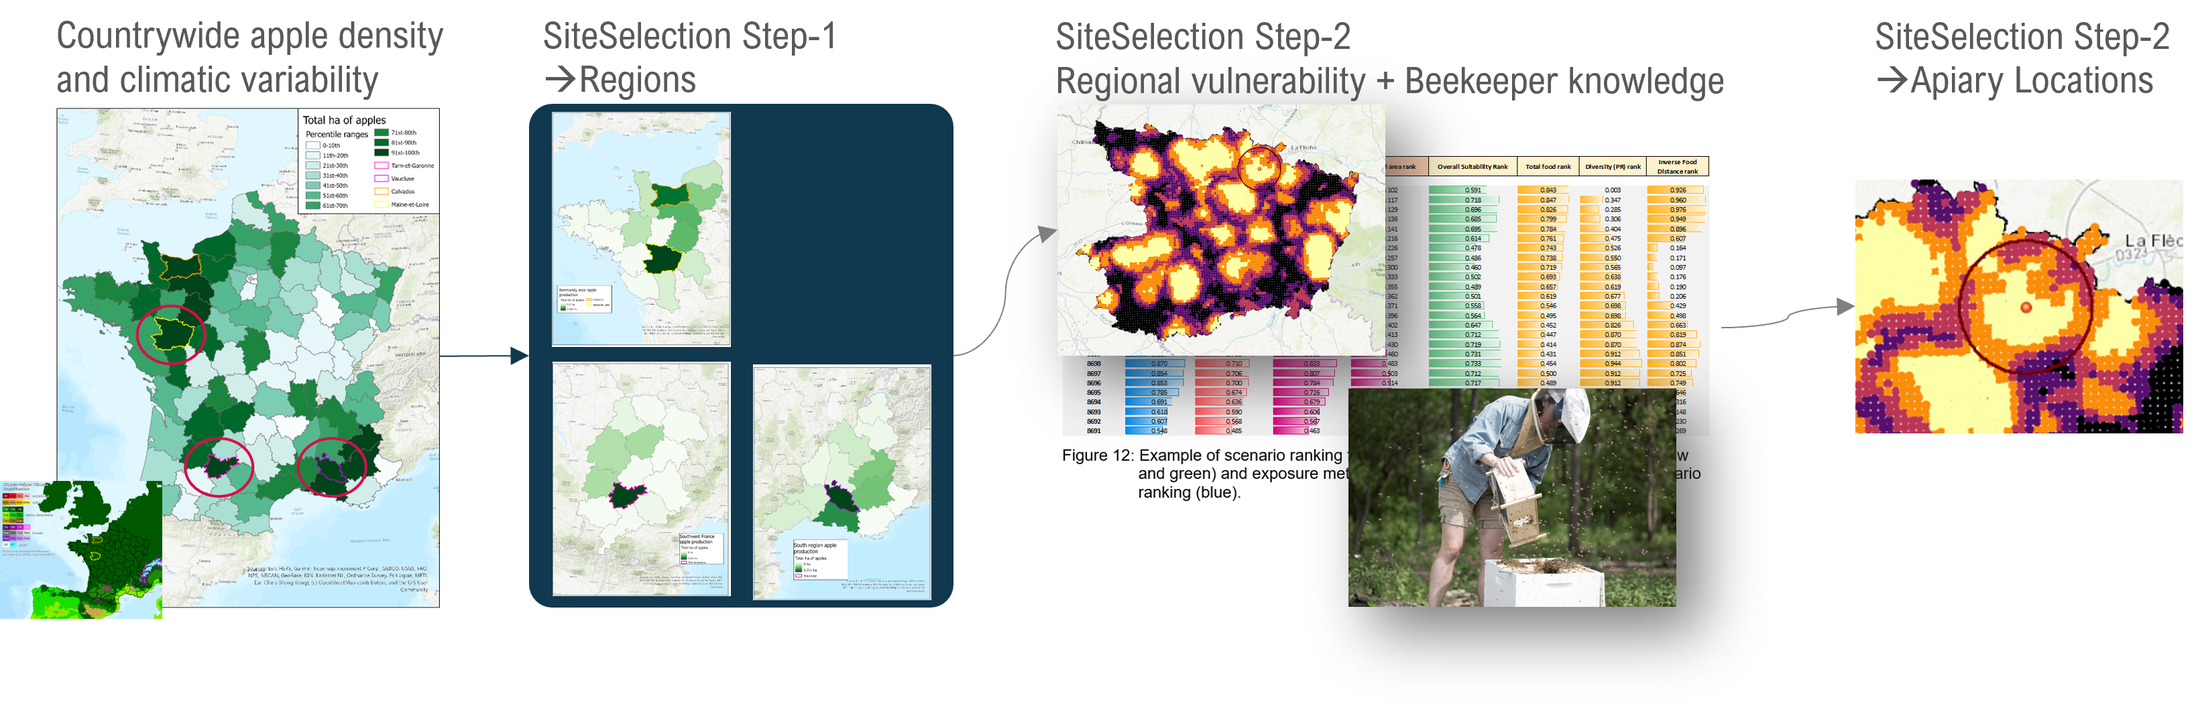
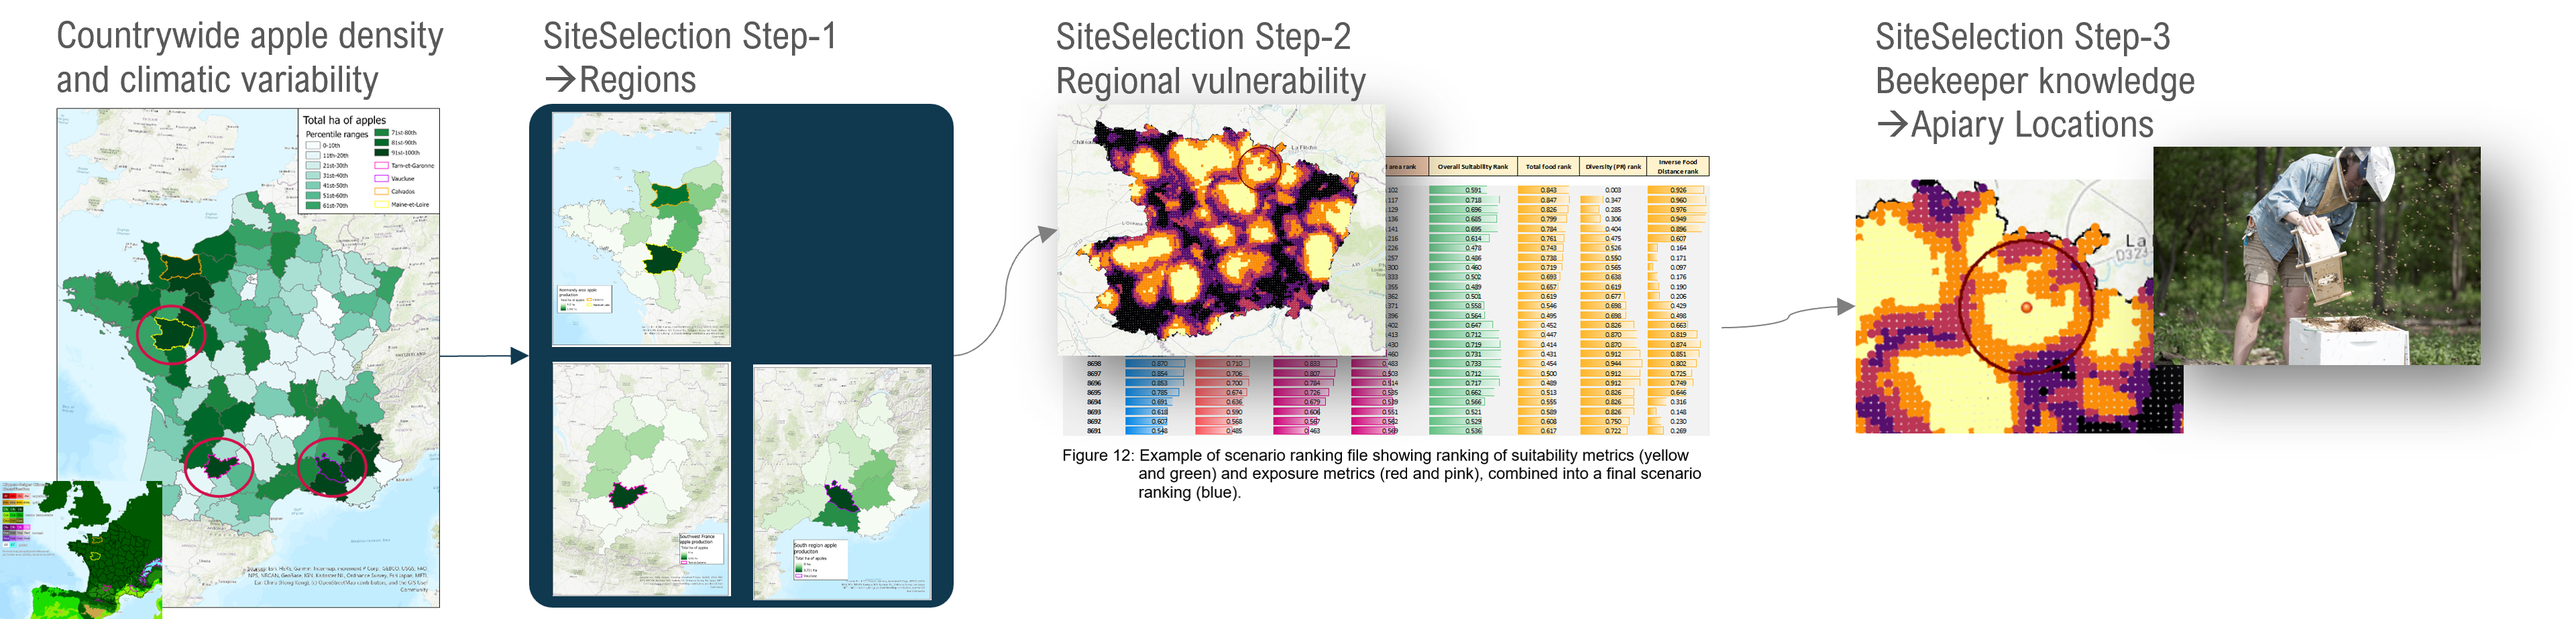
documentation: continue with 'scenario' section

diff --git a/docs/scenarios/scenario-intro.md b/docs/scenarios/scenario-intro.md
@@ -1,4 +1,4 @@
-# Intro
+# Intro *!writing in progress!*
 
 First of all, scenarios have a **technical meaning** as a structured integration of all nessessary environmental, land use/cover, agricultural, ecological data, information and assumptions to run a model (here, xPollinator). However, in environmental risk assessment, scenarios have a **regulatory meaning** as a testing system, that has to assure a certain protection level in case the test gets passed. In this role, scenarios have to address a certain **level of conservatism**, hence, need to be **representative** for a range of conditions of a typically large geographic area (e.g., a country).  
 Whereas detailed scenarios are applied to derive risk estimates, simple ones are used, e.g., for screening a level of conservatism for large areas.  
@@ -19,24 +19,120 @@ Furthermore, such services can support the study site identification, i.e., the 
 
 ### Scenario Development Aspects
 
-#### Tiered Approach
+#### Scenario Site Selection
 
-Typically, the ideal data of local nectar and pollen provisioning by plant species, together with the necessary data on environmental conditions are not available. Thus, **bee forage occurrence need to be modeled**. Scale, precision and accurracy of this modelling approach should be adapted to the problem at hand. Presumably, this procedure comes with expert judgement, so, transparancy in the data acquisition, preparation and processing is key to acceptability.  
-xxx  
-To support clarity and transparancy, we propose to consider a tiered approach (4 levels) as part of this Depending on the purpose of the bee (pollinator) forage modelling, :
+The selection of scenario sites is a crucial part of the scenario development process and depends on the study context, purpose and goals.  
+An example for a site selection process is illustrated below. The context is a regulatory risk assessment using the BeeHave model, for the use of an insecticide in apple cultivations in France. In this illustrative example, site selection was a 3-step approach:  
+
+1. At country scale (France), cultivation data consistantly available across France was used to select regions of high apple cropping density. Rationale: Honey bees forage on apple inflorescences. As a managed species, bee keepers like to put their hives in apple cultivation vicinity. Thus, risk of honey bees to get exposed by the use of a PPP in apples is driven by local apple cultivation density, simply: the more apple cultivations the greater the chance of bees to be exposed.  
+Bee activity is driven by weather conditions, eg, temperature, sunshine hours. As e.g., the effect of varying sunshine hours to risk is currently not clear, 3 regions of different climate conditions were selected covering climatic variability to increase scenario represenativeness.
+1. At regional level, bee forage mapping was built upon a dataset of Land Use/Cover types covering bee forage offering vegetation (eg, rape, apples, wood and road margins, riparian). The LULC layer was derived using off-the-shelf topographic, cropping, hydrographic datasets, cropping statistics and expert knowledge (eg, wood margin). A vulnerability map was derived combining densities of bee forage with potential exposure (pesticide use in apples).
+1. Local identification of realistic bee hive spots was done in cooperation with bee keepers: Beekeepers have the experience on where to place bee hives in a given landscape. Such management information adds reality to scenario development. This information was combined with regional vulnerability indices in order to ultimately select apiary sites (conservative, ie, high vulnerability percentile).  
+
+Outlook: xxx
+
+- improve quantitative scenario ranking using a metamodel on beehive development (and exposure) derived from a large number of BEEHAVE simulation runs, screening the parameter space, in combination with a sensitivity analysis. 
+- explicitely include temporal (seasonal) bee forage variability and diversity
+improve quantitative local vulnerability (risk) indicies using a metamodel on beehive development (and exposure) (see also above)
+
+
+
+coverage of conditions, variability , 
+
+![Site Selection](../img/scenario%20selection%20-%20case%20study%20France.png)
+
+![Local Site Selection](../img/Scenario%20Example%20-%20local%20site%20selection.png)
+
+#### Modular Scenario Development
+
+xxx elements
+
+![BeeForage in Landscape](../img/BeeForage%20occurrence%20in%20a%20landscape%20illustration.png)
+
+xxx
+
+![BeeForage Construction Kid](../img/Bee%20forage%20contruction%20kit%20illustration.png)
+
+#### Levels of Detail
+
+The ideal data of local nectar and pollen provisioning by plant species and cummunities, together with the necessary data on environmental conditions is hardly available (and are not needed for a given purpose). Typically, **bee forage occurrence is modeled**, as a composit of data, models and expert judgement. Scale, precision and accurracy of this modelling approach should be adapted to the problem at hand. Transparancy in data preparation, processing and modelling steps is key to acceptability.  
+To support transparancy and structure in scenario development, we propose to consider explicit levels of detail, which relate to the purpose of the bee (pollinator) forage modelling:
 
 | Level | Data Acquisition | Description |
 | --- | --- | --- |
-| 1 | Off-the-shelf data | Broad-coverage datasets (satellite, national/regional products) suitable for large-scale or screening analyses. |
-| 2 | Best-available data | Curated and locally-validated datasets with additional manual processing or expert curation for improved accuracy. |
-| 3 | Contemporary data generation | High-resolution data collected specifically for the study (e.g., drone mapping, targeted remote sensing). |
-| 4 | Field study | Detailed, on-the-ground mapping and measurements providing the highest-resolution information about forage, phenology and local environmental conditions. |
+| 1 | Off-the-shelf data | Basic, wide-coverage datasets (satellite, national/regional products) suitable for large-scale or screening analyses. |
+| 2 | Best-available data | Curated and locally verified datasets with additional manual processing or expert review for improved accuracy. |
+| 3 | Contemporary data generation | High-resolution, high information depth data collected targeted for the study (e.g., drone mapping, targeted remote sensing). |
+| 4 | Field study | Detailed, field mapping and measurements providing high-resolution information about forage, phenology and local environmental conditions. |
 
-#### LULC
+#### Base Data
 
-Land use/cover data provides typically builds the spatial base information on 
+This section introduces some base data, commonly used in scenario development. The information is more intended to give a general overview then to point on specific data as data devepoment and provisioning is very dynamic. We highly recommend to consult web pages, search engines and AI agents (artificial intelligence) for recent information before you start your development or study.  
+
+##### Land Use Land Cover (LULC)
+
+A typical base geodata layer in scenario development is composed from pan‑European and national/topographic sources. The table below summarises common products and their typical availability across Europe and individual countries.
+
+| Dataset / Product | Geographic coverage | Typical spatial resolution / unit | Access / Notes |
+| --- | --- | --- | --- |
+| CORINE Land Cover (CLC) / Copernicus Land Monitoring | Pan‑Europe (EEA) | Vector polygons, minimum mapping unit ≈25 ha (derived raster products ~100 m) | Open via EEA/Copernicus. Good for consistent, multi‑year land-cover mapping but coarse for parcel-scale studies. |
+| Copernicus High Resolution Layers (HRL) | Pan‑Europe (selected layers) | Thematic layers (e.g., forests, grasslands) often at 10–20 m equivalent detail | Open via Copernicus; complements CLC with thematic detail. |
+| EU‑DEM / SRTM / national DEMs | Pan‑Europe (EU‑DEM) / global (SRTM) / national high‑res | DEMs at 25 m (EU‑DEM) to 90 m (SRTM); national LiDAR-derived DEMs much finer | EU‑DEM open; national DEMs/LiDAR availability varies by country and region. Use national portals for high‑resolution DEMs. |
+| National orthophotos / aerial imagery | Country / regional | Very high resolution (sub‑meter to 1 m) | Typically available from national mapping agencies; often open or low‑cost — invaluable for detailed mapping and manual validation. |
+| National crop cover / thematic crop maps (e.g., German Crop Cover Map) | Country (examples: Germany, Netherlands, UK, France) | Varies — from 10 m to parcel level | Produced by national agencies or research groups; quality and update frequency vary by country. Check national portals for access and licensing. |
+| IACS / LPIS (administrative parcel data) | National / regional (EU) | Parcel-level declarations (farmers’ subsidy claims) | Highly detailed for crop/use per parcel but often restricted; access requires agreements with national paying agencies. Excellent for parcel-scale scenario building when available. |
+| LIDAR / ALS point clouds & derivatives | Regional / national (select countries) | Very high resolution (sub‑meter elevation, vegetation structure) | Increasingly open in many countries (e.g., England, Netherlands, parts of Scandinavia); check national geoportals. Useful for hedges, canopy and microtopography. |
+| OpenStreetMap (OSM) & volunteered data | Global (incl. Europe) | Vector features (roads, buildings, landuse polygons) | Open and continuously updated; variable completeness and thematic consistency — useful for topographic features and small‑structure mapping. |
+
+
+##### Topographic / National base maps (country-level)
+
+This table focuses on national topographic and base-map products (vector/raster), useful for deriving parcels, hedges, buildings and other baseline topographic features. Availability and licensing differ by country; check the national geoportal for access and licence terms.
+
+| Dataset / Product | Country / Coverage | Typical spatial resolution / unit | Access / Notes |
+| --- | --- | --- | --- |
+| ATKIS (Basis‑DLM) | Germany | Multi-scale vector topographic database; detailed topographic objects (scale-dependent) | Provided by BKG and state mapping agencies; access via national geoportals. Licensing varies. |
+| BDTOPO / BD TOPO | France | National vector topographic database (detailed topographic layers) | Provided by IGN; available via Géoportail and data.gouv.fr. |
+| BTN (Base Topográfica Nacional) / SIOSE | Spain | BTN: national topographic data; SIOSE: land‑use/land‑cover thematic map | Available via CNIG; BTN for topography, SIOSE for land‑use. Licensing and access on national portals. |
+| OS OpenData / OS MasterMap | Great Britain | Vector topographic layers; MasterMap provides parcel/building-level detail (commercial) | OS OpenData products available freely for many uses; MasterMap is commercial — check OS licensing. |
+| TOP10NL / TOP10Vector / AHN | Netherlands | TOP10: 1:10k vector topographic data; AHN: national LiDAR-derived elevations | Distributed via PDOK; most datasets openly accessible. |
+| BEV / Basis‑DLM | Austria | National vector topographic database and derivatives | Provided by BEV; access via Austrian geoportal. |
+| IGM / national topo products | Italy | National topographic maps and derived vector datasets | Provided by IGM and regional geoportals; check national/regional portals for access. |
+| National examples (SE, NO, BE, PT, etc.) | Sweden, Norway, Belgium, Portugal, ... | Country-specific vector/raster topographic datasets (scale varies) | Examples: Lantmäteriet (SE), Kartverket (NO), NGI/IGN (BE), IPMA/ICNF portals (PT). Check national geoportals for details. |
+| OpenStreetMap (OSM) | Global (incl. Europe) | Vector features (roads, buildings, boundary features) | Open, community-maintained; variable completeness — useful as a fallback or for features missing in national datasets. |
+
+
+##### Agricultural Data
+
+To support reproducibility and transparency, different statistical and administrative data sources are typically consulted when composing study-area inputs. The table below summarises common agricultural statistics sources across Europe (examples and access notes):
+
+| Source | Geographic coverage | Key content | Access / Notes |
+| --- | --- | --- | --- |
+| Eurostat (Farm Structure Survey, FSS; agri statistics) | EU / Member States | Farm structure, land used by crop, livestock numbers, farm size classes, basic agricultural indicators | Eurostat data portal (tables by survey/year). Useful for consistent, comparable EU-wide indicators. |
+| FADN (Farm Accountancy Data Network) | EU (sample of farms) | Farm-level economic accounts, costs, incomes, farm types | Access via EC DG AGRI / FADN portal; sample-based — good for economic analyses but not exhaustive. |
+| National agricultural censuses & surveys (e.g., Germany: Agrarstrukturerhebung / DESTATIS) | Country-level | Detailed farm structure, crop areas, livestock, management practices (national methodology) | Published by national statistical offices (e.g., DESTATIS for Germany). Use for highest national detail and legal definitions. |
+| IACS / LPIS (administrative subsidy data) | National / Regional (EU) | Parcel-level declarations, crop types, area per parcel — linked to subsidy claims | Managed by national paying agencies; excellent for parcel-level mapping but access may be restricted or require agreements. |
+| National ministries / agencies & sector bodies | Country or regional | Administrative statistics (production, registrations, herd/flock data), advisory reports | Often published on ministry portals; complementary to census data and often more up-to-date. |
+| FAO / FAOSTAT | Global (incl. Europe) | Production, trade, input/output statistics, long time series | Good for international comparability and long-term trends; lower spatial detail than national sources. |
+
+A common base information layer, today typically available across countries Land use/cover data provides typically builds the spatial base information on 
+CORINE
+German Crop Cover Map
+EEA
 
 Vegetation mapping and modelling. [European Vegetation Archive (EVA)](https://euroveg.org/eva-database/)
+
+##### Remote Sensing
+
+
+| Platform | Purpose | Availability | Note |
+| --- | --- | --- | --- |
+| Satellite, medium-resolution (Landsat 5/7/8/9; Sentinel-1/-2) | Land use/cover mapping, agricultural management (crop types, harvest, ploughing), vegetation development | Landsat archive (since <1990, 30 m); Sentinel since ≈2016 (10 m) | Free, full spatial coverage; mature processing workflows |
+| Satellite, high-resolution (<1 m) | LULC and small-structure mapping (hedges, margins), vegetation time series | Operational since ≈2000; archives heterogeneous, tasking available | Commercial providers; good for targeted studies |
+| Digital orthophotos (high-resolution, <1 m) | Parcel mapping, LULC, small structures | Widely available since 1990s; national/regional coverage | Low cost, widely used for mapping |
+| LIDAR (very high resolution) | 3D structure, hedge and margin geometry, elevation models | Increasing availability since ≈2010 | Partly open data; provides detailed structural information |
+| Drones (very high resolution) | Regional high-resolution mapping, vegetation characterisation, habitat mapping | Regional / study-specific deployment; flexible temporal resolution | Ideal for field studies; requires flight planning and permissions |
+| Field photography | Local LULC, agricultural and habitat characterisation | Field campaigns / regional | Complementary to remote sensing; often collected by CROs or field teams |
 
 #### BeeForage
 
